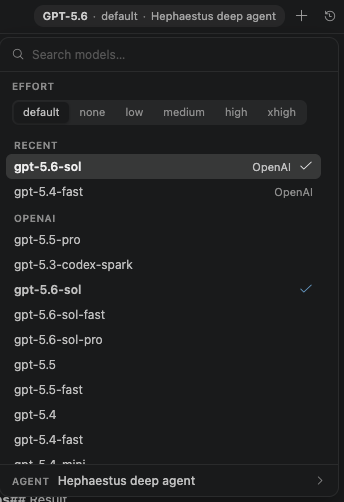
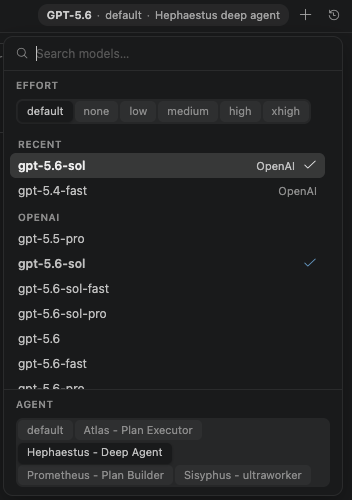
docs(readme): refresh model picker and chat history screenshots (#533)
The picker screenshot predates agent chips landing in the same popover as
effort (1.11.2), and the Highlights bullet still described an effort-only
picker. The chat history screenshot was stale as well.

Closes #532

diff --git a/README.md b/README.md
@@ -46,7 +46,7 @@
 - **Edit + regenerate** — click any past user message; the conversation rewinds via opencode's `session.revert`.
 - **Review Changes** card per file with `Keep` / `Undo` (per row + Keep / Undo all).
 - **Inline edit** with `Cmd+K` / `Ctrl+K` — rewrite selection with natural language.
-- **Effort / reasoning-budget picker** for models that expose variants (gpt-5.5, claude-opus, etc.).
+- **Model · Agent · Effort picker** — one in-panel popover: search models, set the effort / reasoning budget for models that expose variants (gpt-5.5, claude-opus, etc.), and switch opencode agents.
 - **Math, tables, lists** render properly in assistant messages (LaTeX, GFM, KaTeX).
 
 ## Setup
